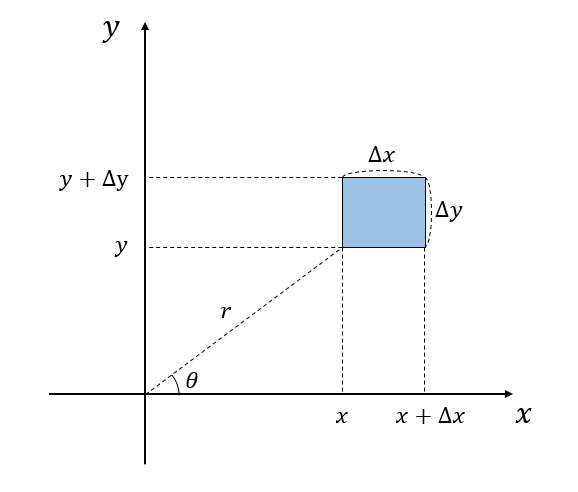
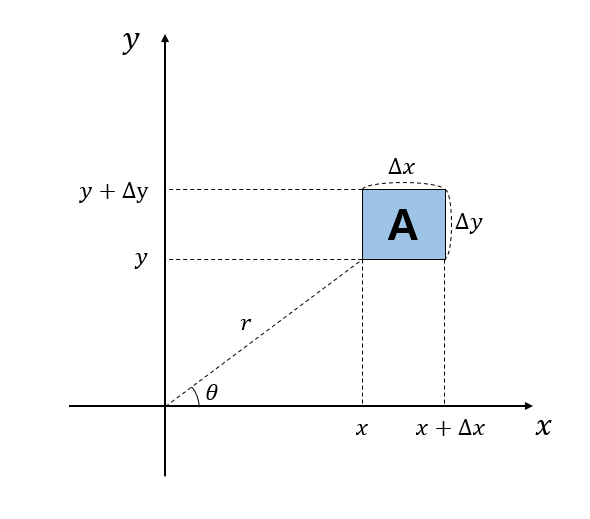
정규분포 초안 upload 완료

diff --git a/_posts/2020-09-14-normal_distribution_derivation.md b/_posts/2020-09-14-normal_distribution_derivation.md
@@ -34,8 +34,9 @@ tags: 통계학
 
 <p align = "center">
   <img src = "https://raw.githubusercontent.com/angeloyeo/angeloyeo.github.io/master/pics/2020-09-14-normal_distribution_derivation/pic2.png">
-  <br> 그림 1. 정규 분포의 공식과 포스팅에서의 유도 순서
+  <br> 그림 2. 중심을 원점에 일치시킨 원형다트판
 </p>
+
 필요한 가정
 
 1. 다트판 상에서 점수를 등고선으로 나타낸다고 했을 때, 동일한 점수의 등고선 상에 맞춘 다트는 모두 점수가 같다. 즉, 확률밀도 함수는 회전에 독립적이다.
@@ -44,11 +45,20 @@ tags: 통계학
 
 3. 사각형까지의 거리가 같을 때 사각형의 넓이가 넓을 수록 맞을 확률이 높다.
 
-[//]: # (그림 3. ref 1에서의 Figure 1과 같은 그림을 그려서 가정 2, 3에 대한 부연 설명할 것.)
+<p align = "center">
+  <img src = "https://raw.githubusercontent.com/angeloyeo/angeloyeo.github.io/master/pics/2020-09-14-normal_distribution_derivation/pic3.png">
+  <br> 그림 3. (좌) 사각형의 크기가 같다면 거리가 가까울 수록 사각형에 맞을 확률이 높음. 즉, 사각형 A, B, C 순서로 다트가 맞을 확률이 높다. (우) 사각형까지의 거리가 같을 때 사각형의 넓이가 넓을 수록 맞을 확률이 높다. 즉, F, E, D 순서로 사각형에 맞을 확률이 높다.
+</p>
+
 
 ## 유도 과정
 
 앞서 언급한 세 가지의 가정을 생각하면서, 직교 좌표 상에 임의의 위치 $(x, y)$에서 너비가 $\Delta x$이고 높이가 $\Delta y$인 사각형 $A$에 다트가 맞을 기댓값을 생각해보자.
+
+<p align = "center">
+  <img src = "https://raw.githubusercontent.com/angeloyeo/angeloyeo.github.io/master/pics/2020-09-14-normal_distribution_derivation/pic4.png">
+  <br> 그림 4. 기댓값을 계산해볼 사각형 A
+</p>
 
 여기서 $x$축과 $y$축에서 다트가 안착할 확률에 대한 확률밀도 함수를 $f(x, y)$라고 하자.
 
@@ -230,9 +240,95 @@ $$식(18) =  A_0 \exp\left(\frac{1}{2}(-kx^2)\right) = \sqrt{\frac{k}{2\pi}} \ex
 
 # exponential 내부의 식 유도
 
+그림 1에 있는 정규 분포의 공식에서 exponential term 안에 있는 내부의 식을 유도하기 위해선 확률밀도함수의 moment 개념을 이용해야 한다.
+
+어려운 것은 아니고 다음과 같이 확률밀도 함수 $f(x)$가 주어져있을 때 평균과 분산은 다음과 같이 계산할 수 있다는 것이다.
+
+$$\mu=\int_{-\infty}^{\infty}xf(x)dx$$
+
+[//]: # (위는 식 35)
+
+$$\sigma^2 = \int_{-\infty}^{\infty}x^2f(x)dx$$
+
+[//]: # (위는 식 36)
+
+
+우리는 식 (34)까지 구했던 $f(x)$의 식을 이용해서 평균과 분산 값을 적어보도록 하자.
+
+$$\mu = \int_{-\infty}^{\infty}x\sqrt{\frac{k}{2\pi}}\exp\left(-\frac{1}{2}kx^2\right)dx$$
+
+식 (37)에서 $x$ term은 기함수이고 $\exp\left(-\frac{1}{2}kx^2\right)$ term은 우함수이다. 따라서, 기함수 곱하기 우함수는 기함수이므로, 위의 식 (37)의 결과값은 0이 된다.
+
+또, 분산 값을 적어보면,
+
+$$\sigma^2 = \int_{-\infty}^{\infty}x^2\sqrt{\frac{k}{2\pi}}\exp\left(-\frac{1}{2}kx^2\right)dx$$
+
+$$=\sqrt{\frac{k}{2\pi}}\int_{-\infty}^{\infty}x^2\exp\left(-\frac{1}{2}kx^2\right)dx$$
+
+여기서 식 (39)를 다음과 같이 생각해보자.
+
+$$\Rightarrow \sqrt{\frac{k}{2\pi}}\int_{-\infty}^{\infty}x\cdot x\exp\left(-\frac{1}{2}kx^2\right)dx$$
+
+여기서 부분적분을 이용해 식 (40)을 적분해조자.
+
+$x$를 $u$ 라고 하고 $x\exp\left(-\frac{1}{2}kx^2\right)$을 $dv$라고 하면,
+
+$$\begin{cases}u = x \\ du = 1\end{cases}$$
+
+$$\begin{cases}
+
+dv = x\exp\left(-\frac{1}{2}kx^2\right) \\
+
+v = -\frac{1}{k}\exp\left(-\frac{1}{2}kx^2\right)
+
+\end{cases}$$
+
+임을 알 수 있다.
+
+따라서, 식 (40)의 적분 값은 다음과 같다.
+
+$$식(40)\Rightarrow \sqrt{\frac{k}{2\pi}}\left\lbrace\left[x\cdot\left(-\frac{1}{k}\right)\exp\left(-\frac{1}{2}kx^2\right)\right]_{-\infty}^{\infty}+\frac{1}{k}\int_{-\infty}^{\infty}\exp\left(-\frac{1}{2}kx^2\right)dx\right\rbrace$$
+
+[//]: # (위는 식 43)
+
+식 (43)에서 대괄호([])안에 있는 term에 대해 먼저 생각해보면 무한대 값에 대해서는 $x$는 무한대로 발산하고 exponential term은 0으로 수렴하게 되는데, 수렴 속도는 exponential이 0으로 수렴하는 속도가 더 빠르다. 이는 음의 무한대 값에 대해서도 마찬가지로 exponential term이 0으로 수렴하는 속도가 더 빠르다. 따라서 대괄호 안에 있는 term은 결국 0이 되게 된다.
+
+따라서 식 (43)은
+
+$$식(43) \Rightarrow \sqrt{\frac{k}{2\pi}}\left\lbrace\frac{1}{k}\int_{-\infty}^{\infty}\exp\left(-\frac{1}{2}kx^2\right)dx\right\rbrace$$
+
+[//]: # (위는 식 44)
+
+여기서 식 (44) 중괄호($\lbrace\rbrace$)안에 있는 값은 식 (32)로부터 알 수 있는 값이다.
+
+$$ \Rightarrow \sqrt{\frac{k}{2\pi}}\left(\frac{1}{k}\right)\sqrt{\frac{2\pi}{k}} = \frac{1}{k}$$
+
+그리고 이 값은 원래 $\sigma^2$ 였으므로,
+
+$$\therefore k = \frac{1}{\sigma^2}$$
+
+이다.
+
+다시 식 (34)에 $k$값을 대입해주면,
+
+$$식(34) \Rightarrow f(x) = \sqrt{\frac{k}{2\pi}}\exp\left(-\frac{1}{2}kx^2\right) = \frac{1}{\sigma\sqrt{2\pi}}\exp\left(-\frac{x^2}{2\sigma^2}\right)$$
+
+이 되며, 이 수식은 정규 분포의 수식에서 평균값이 $0$인 경우를 의미하며 평균값이 $\mu$인 경우에는 $x$를 $x-\mu$로 평행 이동 시켜주면 되기 때문에 최종적인 정규 분포의 공식은 다음과 같다.
+
+$$\Rightarrow  \frac{1}{\sigma\sqrt{2\pi}}\exp\left(-\frac{(x-\mu)^2}{2\sigma^2}\right)$$
+
 # reference
 
 * The Normal Distribution: A derivation from basic principles, Dan Teague, The North Carolina School of Science and Mathematics
 (https://www.alternatievewiskunde.nl/QED/normal.pdf)
+
+<center>
+  <iframe width="560" height="315" src="https://www.youtube.com/embed/vQghF8hjwbw" frameborder="0" allow="accelerometer; autoplay; encrypted-media; gyroscope; picture-in-picture" allowfullscreen></iframe>
+</center>
+
+<center>
+  <iframe width="560" height="315" src="https://www.youtube.com/embed/EViv-7oHuvw" frameborder="0" allow="accelerometer; autoplay; encrypted-media; gyroscope; picture-in-picture" allowfullscreen></iframe>
+</center>
+
 
 [^1]: 해당 과정의 자세한 설명은 [가우스 적분](https://angeloyeo.github.io/2020/01/17/Gaussian_Integral.html)편을 참고하길 바람.
